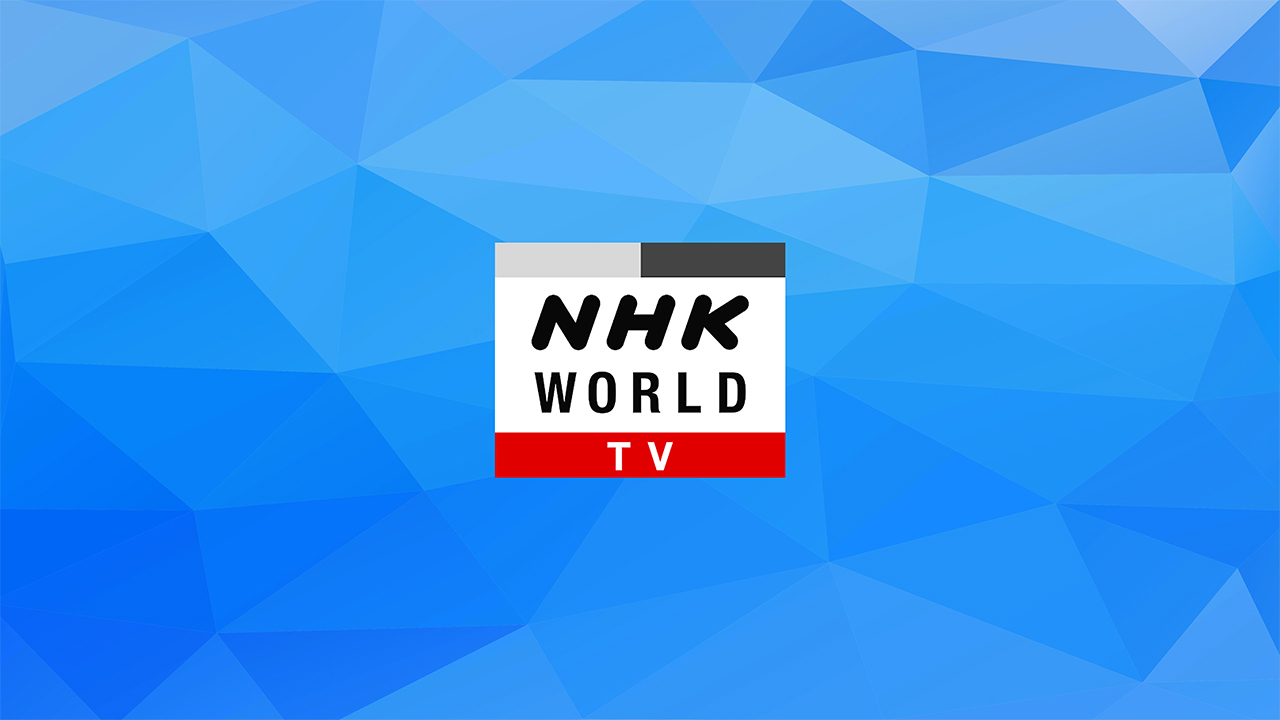
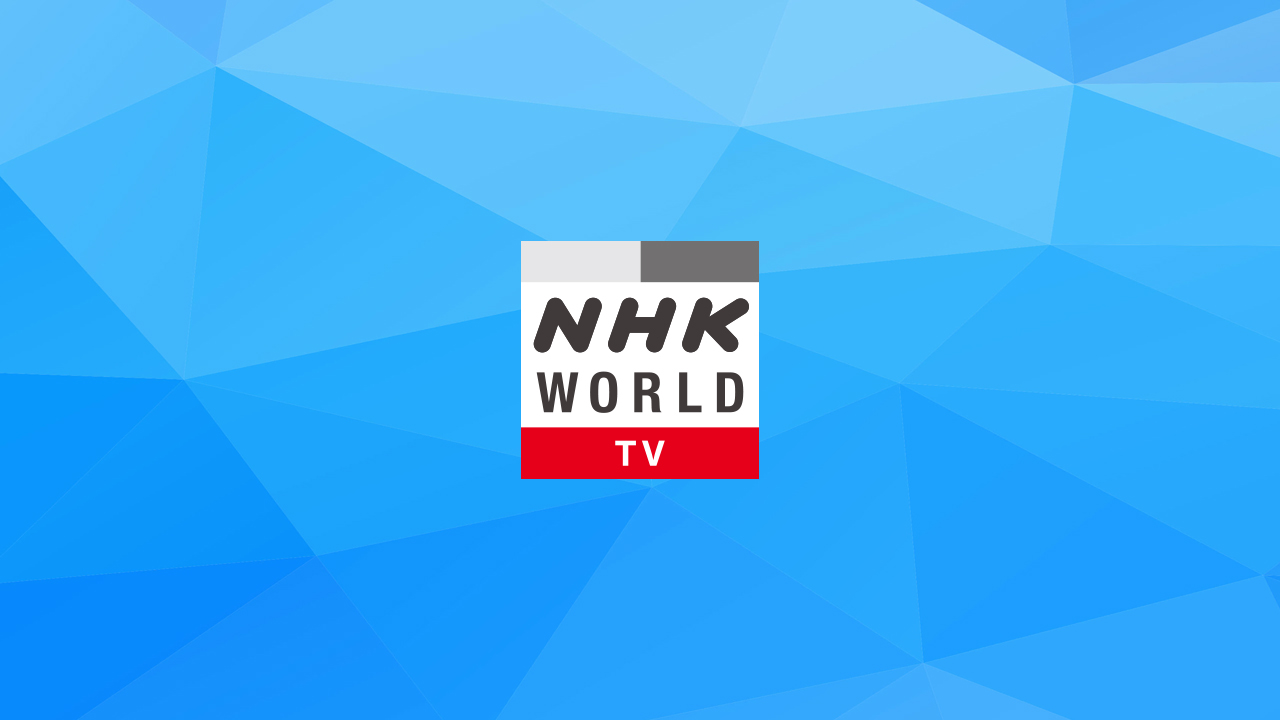
Add super smooth looking graphics

diff --git a/Contents/Code/__init__.py b/Contents/Code/__init__.py
@@ -4,7 +4,7 @@
 # VERSION 1.0 | 09/05/2017
 # BY OSCAR KAMEOKA ~ WWW.KITSUNE.WORK ~ PROJECTS.KITSUNE.WORK/aTV/
 #
-# 
+#
 
 import requests
 
@@ -23,12 +23,14 @@ FALLBACK_THUMB  = 'http://projects.kitsune.work/aTV/NHK/art-DEFAULT.png'
 
 def Start():
 	# SET VIEW
-	Plugin.AddViewGroup("InfoList", viewMode="InfoList", mediaType="items")
+	Plugin.AddViewGroup("Details", viewMode="InfoList", mediaType="items")
 
-	ObjectContainer.title1 	= NAME
-	ObjectContainer.art 	= R(ART)
-	DirectoryObject.art 	= R(ART)
-	VideoClipObject.art 	= R(ART)
+	ObjectContainer.title1 		= NAME
+	ObjectContainer.art 		= R(ART)
+	ObjectContainer.view_group 	= 'Details'
+
+	DirectoryObject.art 		= R(ART)
+	VideoClipObject.art 		= R(ART)
 
 	HTTP.CacheTime = 0
 	HTTP.ClearCache()
@@ -40,7 +42,7 @@ def Start():
 @handler(PREFIX, NAME, ICON)
 def MainMenu():
 
-	oc 	= ObjectContainer(view_group="InfoList", no_cache=True)
+	oc 	= ObjectContainer(view_group="Details", no_cache=True)
 
 	# ADD LIVE STREAM OBJECT FIRST
 	item = Dict['channels'][0]
@@ -56,7 +58,6 @@ def MainMenu():
 	oc.add(TVShowObject(
 		key = Callback(Recently, title = 'RECENTLY ADDED VIDEOS', stub = 0, url = RECENTLY),
 		rating_key = '⁍ RECENTLY ADDED VIDEOS',
-		studio = 'NHK',
 		title = '⁍ RECENTLY ADDED VIDEOS',
 		summary = 'Latest Video Aired On ' + unicode(Dict['recently'][0]['aired']),
 		thumb = R('icon-NHK_VOD.png')
@@ -68,7 +69,6 @@ def MainMenu():
 			TVShowObject(
 				key = Callback(Episodes, title = pgm['title'], stub = pgm['id'], url = pgm['url']),
 				rating_key = pgm['id'],
-				studio = 'NHK',
 				title = pgm['title'],
 				thumb = Resource.ContentsOfURLWithFallback(pgm['thumb'], FALLBACK_THUMB),
 				summary = pgm['summary']
@@ -117,7 +117,7 @@ def CreateVideoClipObject(url, title, thumb, art, summary,
 
 @route(PREFIX + '/episodes', forced_episode = int)
 def Episodes(title, stub, url, forced_episode = None):
-	oc = ObjectContainer(view_group="InfoList", title2 = title)
+	oc = ObjectContainer(view_group="Details", title2 = title)
 	json_data = JSON.ObjectFromString(HTTP.Request(url, cacheTime = None).content)
 	#json_data = JSON.ObjectFromURL(data)
 	
@@ -144,7 +144,7 @@ def Episodes(title, stub, url, forced_episode = None):
 
 @route(PREFIX + '/latest', forced_episode = int)
 def Recently(title, stub, url, forced_episode = None):
-	oc = ObjectContainer(view_group="InfoList", title2 = title)
+	oc = ObjectContainer(view_group="Details", title2 = title)
 	json_data = JSON.ObjectFromString(HTTP.Request(RECENTLY, cacheTime = None).content)
 	#json_data = JSON.ObjectFromURL(data)
 	
@@ -163,7 +163,7 @@ def Recently(title, stub, url, forced_episode = None):
 
 	if len(oc) < 1:
 		oc.header = "Sorry"
-		oc.message = "Couldn't find any episodes for this show"
+		oc.message = "Couldn't find any latest episodes"
 
 	return oc
 
